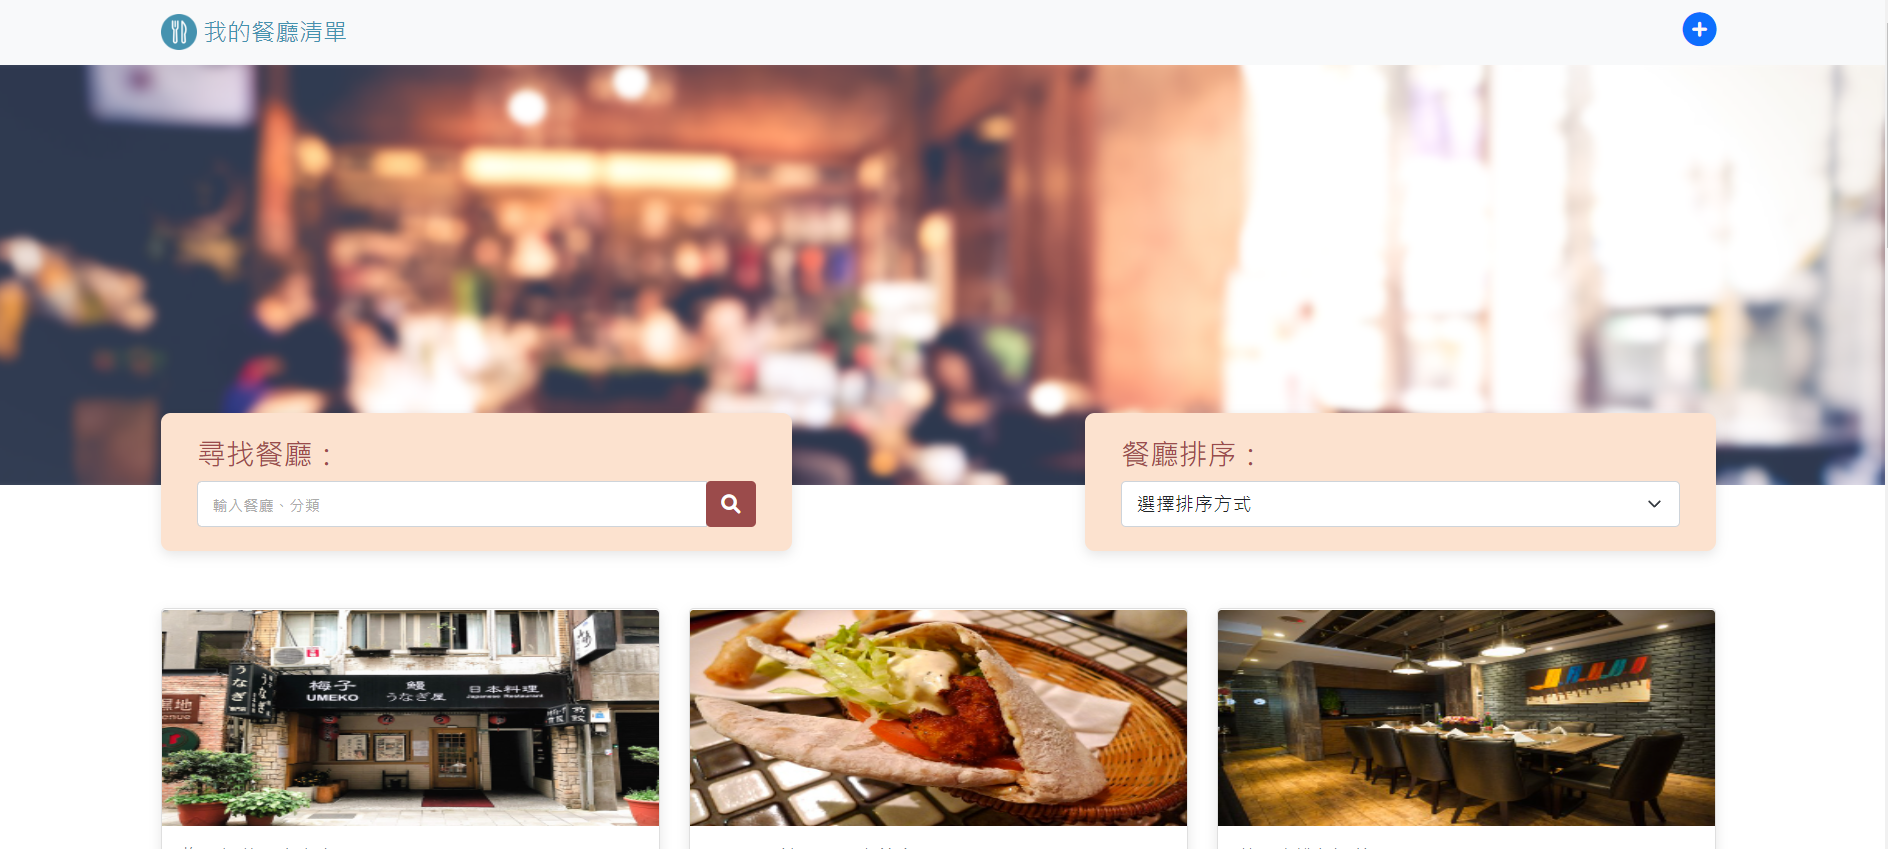
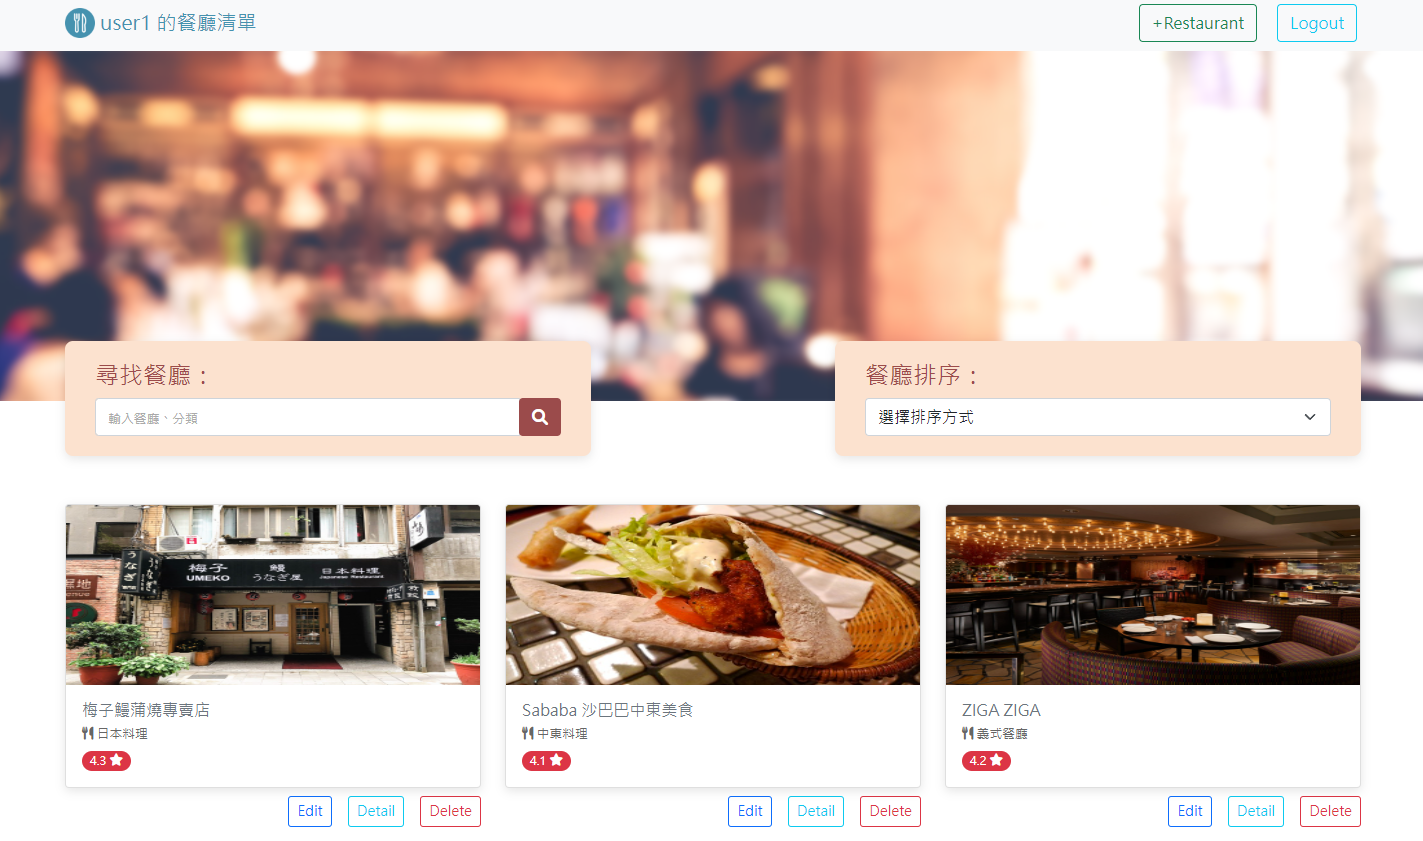
docs: modify .env.example, screenshot, and README.md files

diff --git a/README.md b/README.md
@@ -1,20 +1,23 @@
-# Restaurant List - v3
+# Restaurant List - final
 
-_CRUD & MongoDB Practice_
 ![image](./localhost3000_screenshot.png)
 
 ## 軟體及模組版本
 
 ```
-"express": "V4.18.1"
-"express-handlebars": "V4.0.2"
-"mongoose": "V6.3.3"
-"body-parser": "V1.20.0"
-"bootstrap": "V5.1.3"
-"popper": "V2.9.1"
-"font awesome": V6.1.1"
-"dotenv": "V16.0.1"
+"bcryptjs": "^2.4.3"
+"body-parser": "^1.20.0"
+"connect-flash": "^0.1.1"
+"dotenv": "^16.0.1"
+"express": "^4.18.1"
+"express-handlebars": "^4.0.2"
+"express-session": "^1.17.3"
 "method-override": "^3.0.0"
+"mongoose": "^6.3.3"
+"passport": "^0.6.0"
+"passport-facebook": "^3.0.0"
+"passport-google-oauth20": "^2.0.0"
+"passport-local": "^1.0.0"
 ```
 
 ## 安裝及執行
@@ -22,21 +25,22 @@ _CRUD & MongoDB Practice_
 - 下載至本地
 
 ```
-git clone https://github.com/wuwachon/RestaurantList_Routes_v3
+git clone https://github.com/wuwachon/RestaurantList_Login_final.git
 ```
 
 - 安裝相關套件
 
 ```
-cd RestaurantList_Routes_v3
+cd RestaurantList_Login_final
 npm install
 ```
 
-- 本地 MongoDB 資料庫
+- 環境變數設定(`.env.example`檔案修改)
 
-  1. 修改`.env.example`檔案內 MONGODB_URI 使用者名稱及密碼等參數並移除`.example`副檔名
+  1. 移除`.example`副檔名
+  2. 修改 MONGODB_URI、FACEBOOK_ID、FACEBOOK_SECRET、GOOGLE_ID、GOOGLE_SECRET
 
-  2. 匯入 seeder 檔案
+- 匯入 seeder 檔案
 
 ```
 npm run seed
@@ -48,9 +52,21 @@ npm run seed
 npm run dev
 ```
 
-Terminal 顯示 http://localhost:3000 即表示啟動完成，可至此網址網頁觀看畫面測試功能
+- 功能測試
+
+1. Terminal 顯示 http://localhost:3000 即表示啟動完成，可至此網址網頁觀看畫面測試功能
+2. 可自行註冊使用者或由 Facebook、Google 方式登入
+3. 測試帳號可參考[users.json](./users.json)
 
 ## 專案功能描述
+
+- 使用者可以手動註冊並登入新帳號
+- 使用者註冊時，若已經註冊過、沒填寫必填欄位、或是密碼輸入錯誤，就註冊失敗，並回應給使用者錯誤訊息
+- 使用者登入時，若帳號為註冊過或密碼輸入錯誤，就登入失敗，並回應給使用者錯誤訊息
+- 使用者可以直接由 Facebook 或 Google 帳號登入
+- 使用者的密碼使用 bcrypt 來處理
+- 使用者必須登入才能使用餐廳清單，建立並管理專屬他的一個餐廳清單
+- 使用者未登入或登出時，會被導向登入頁面
 
 - 使用者可以瀏覽資料庫儲存的餐廳清單
 - 使用者可以以餐廳名稱或類別關鍵字搜尋特定餐廳
@@ -59,6 +75,8 @@ Terminal 顯示 http://localhost:3000 即表示啟動完成，可至此網址網
 
 ## 練習技巧
 
-- 資料.sort()用法
-- 使用 method-override 修改 CRUD RESTful 動詞
-- Mongoose config & routes 練習
+- express-session 與 passport strategies 管理本地及第三方網頁登入登出狀態
+- connect-flash 與 middleware 處理暫存訊息
+- Schema.Types.ObjectId 與 ref 設定兩個 collection 之間的關聯性
+- bcrypt.js 密碼加密處理
+- process.env 變數應用
